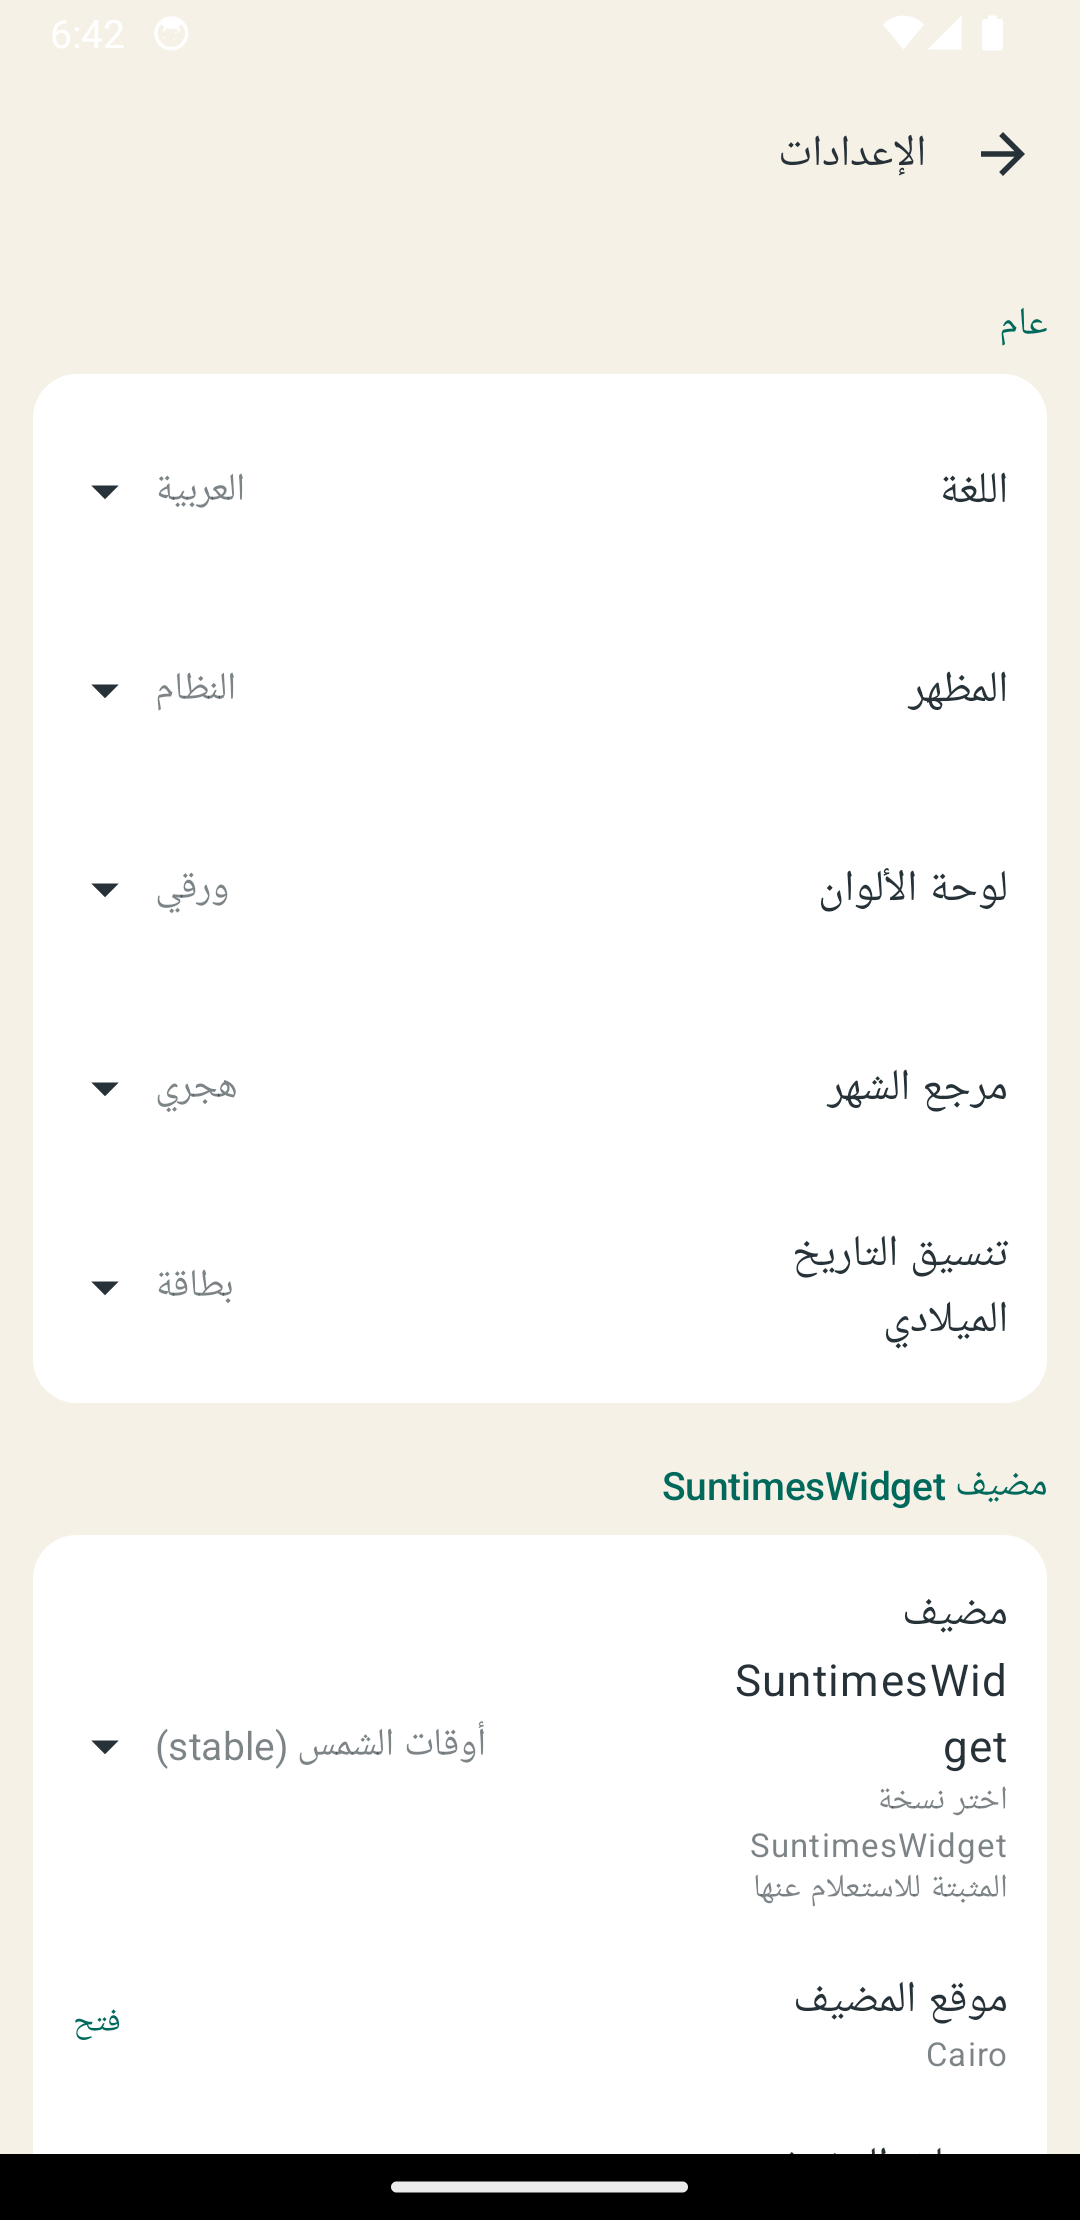
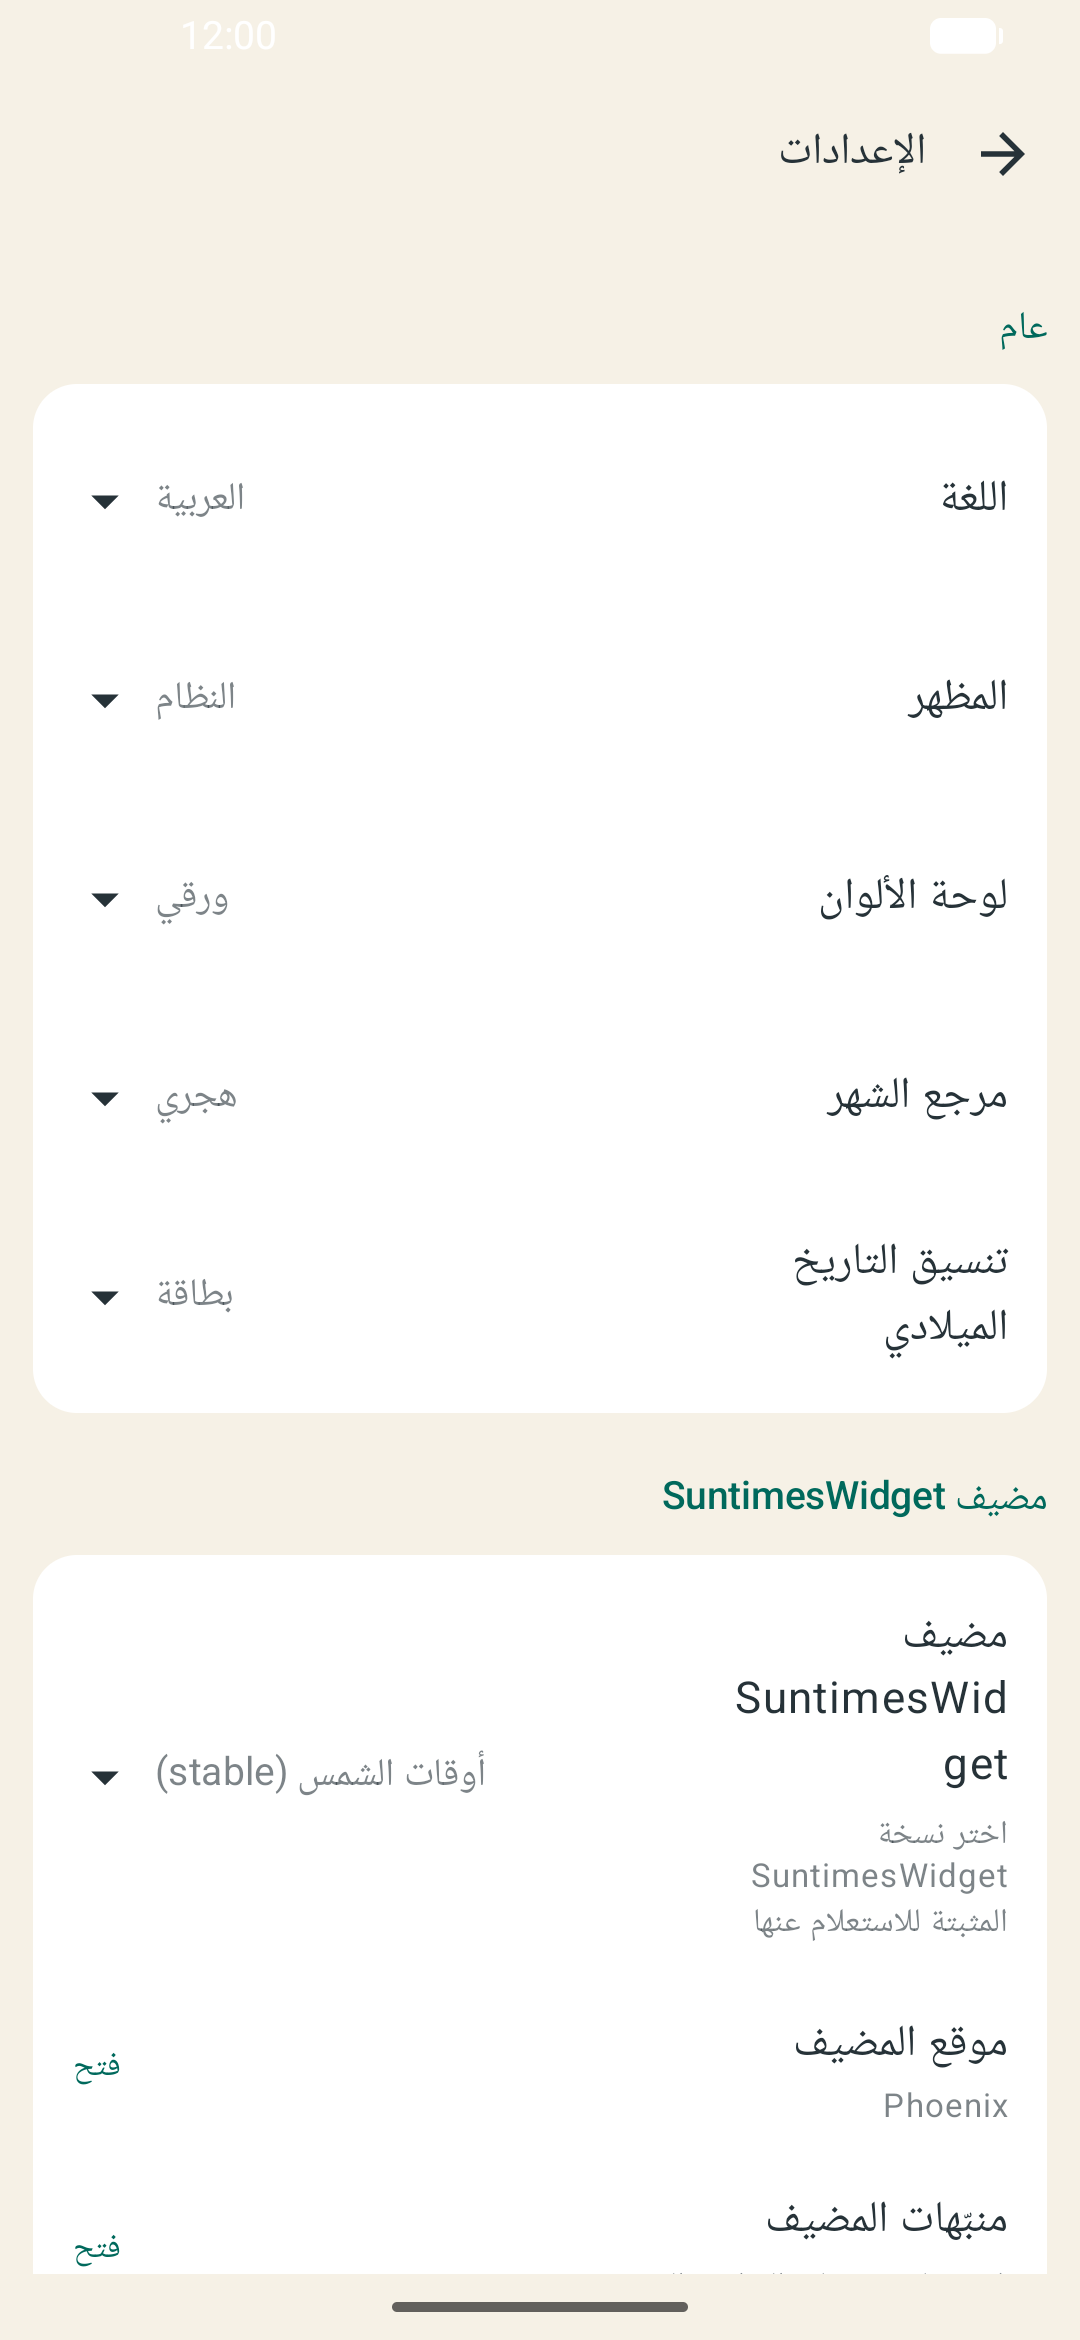
screenshots, Asr: refresh captures; reject distant host times

diff --git a/app/src/androidTest/java/com/yshalsager/suntimes/prayertimesaddon/screenshots/FastlaneScreenshotsTest.kt b/app/src/androidTest/java/com/yshalsager/suntimes/prayertimesaddon/screenshots/FastlaneScreenshotsTest.kt
@@ -1,39 +1,76 @@
 package com.yshalsager.suntimes.prayertimesaddon.screenshots
 
 import android.app.Activity
+import android.app.LocaleManager
+import android.appwidget.AppWidgetManager
 import android.content.Intent
+import android.os.LocaleList
 import android.os.SystemClock
-import androidx.appcompat.app.AppCompatDelegate
-import androidx.core.os.LocaleListCompat
 import androidx.test.core.app.ActivityScenario
 import androidx.test.ext.junit.runners.AndroidJUnit4
 import androidx.test.platform.app.InstrumentationRegistry
+import com.yshalsager.suntimes.prayertimesaddon.core.AddonEvent
+import com.yshalsager.suntimes.prayertimesaddon.core.AddonRuntimeProfile
 import com.yshalsager.suntimes.prayertimesaddon.core.AppClock
+import com.yshalsager.suntimes.prayertimesaddon.core.HostResolver
+import com.yshalsager.suntimes.prayertimesaddon.core.Prefs
+import com.yshalsager.suntimes.prayertimesaddon.core.SavedLocation
+import com.yshalsager.suntimes.prayertimesaddon.core.SavedLocations
+import com.yshalsager.suntimes.prayertimesaddon.core.day_start_at
+import com.yshalsager.suntimes.prayertimesaddon.core.query_host_addon_time
+import com.yshalsager.suntimes.prayertimesaddon.core.query_host_sun
 import com.yshalsager.suntimes.prayertimesaddon.ui.DaysActivity
 import com.yshalsager.suntimes.prayertimesaddon.ui.MainActivity
 import com.yshalsager.suntimes.prayertimesaddon.ui.SettingsActivity
+import com.yshalsager.suntimes.prayertimesaddon.widget.PrayerTimesWidgetConfigureActivity
+import org.junit.Assert.assertEquals
+import org.junit.Assert.assertTrue
 import org.junit.Test
 import org.junit.runner.RunWith
 import tools.fastlane.screengrab.Screengrab
+import tools.fastlane.screengrab.cleanstatusbar.CleanStatusBar
+import tools.fastlane.screengrab.cleanstatusbar.IconVisibility
 import tools.fastlane.screengrab.locale.LocaleTestRule
 import java.util.Calendar
 import java.util.TimeZone
 
 @RunWith(AndroidJUnit4::class)
 class FastlaneScreenshotsTest {
+    private val screenshot_location = SavedLocation(
+        id = "screenshots-cairo",
+        label = "Cairo",
+        latitude = "30.0444",
+        longitude = "31.2357",
+        altitude = "23",
+        timezone_id = "Africa/Cairo",
+        calc_mode = SavedLocations.calc_mode_custom
+    )
+
     @get:org.junit.Rule
     val locale_rule = LocaleTestRule()
 
     @Test
     fun capture_core_screens() {
+        val instrumentation = InstrumentationRegistry.getInstrumentation()
         val locale_tag = InstrumentationRegistry.getArguments().getString("testLocale") ?: "en-US"
         AppClock.set_fixed_now_millis(fixed_now_millis())
+        instrumentation.uiAutomation.executeShellCommand("pm grant ${instrumentation.targetContext.packageName} android.permission.DUMP").close()
+        instrumentation.uiAutomation.executeShellCommand("settings put global sysui_demo_allowed 1").close()
         try {
+            prepare_fixture()
             apply_locale(locale_tag)
+            assert_valid_prayer_ranges()
             capture(MainActivity::class.java, "01_home", 4200L)
             capture(DaysActivity::class.java, "02_calendar", 1800L)
             capture(SettingsActivity::class.java, "03_settings", 1000L)
+            capture(
+                Intent(InstrumentationRegistry.getInstrumentation().targetContext, PrayerTimesWidgetConfigureActivity::class.java)
+                    .putExtra(AppWidgetManager.EXTRA_APPWIDGET_ID, 42),
+                "04_widget_configuration",
+                1000L
+            )
         } finally {
+            CleanStatusBar.disable()
             AppClock.set_fixed_now_millis(null)
         }
     }
@@ -45,22 +82,113 @@ class FastlaneScreenshotsTest {
             timeInMillis
         }
 
+    private fun prepare_fixture() {
+        val instrumentation = InstrumentationRegistry.getInstrumentation()
+        val context = instrumentation.targetContext
+        val host = checkNotNull(HostResolver.ensure_default_selected(context)) {
+            "SuntimesWidget must be installed before capturing screenshots"
+        }
+        HostResolver.get_required_permission(context, host)?.let {
+            instrumentation.uiAutomation.grantRuntimePermission(context.packageName, it)
+        }
+        SavedLocations.save(context, listOf(screenshot_location))
+        Prefs.set_home_location_source(context, SavedLocations.home_source_saved)
+        Prefs.set_home_location_id(context, screenshot_location.id)
+        Prefs.set_days_show_prohibited(context, true)
+        Prefs.set_days_show_night_portions(context, true)
+        Prefs.set_days_show_hijri(context, true)
+    }
+
+    private fun assert_valid_prayer_ranges() {
+        val context = InstrumentationRegistry.getInstrumentation().targetContext
+        val host = HostResolver.ensure_default_selected(context)!!
+        val timezone = TimeZone.getTimeZone(screenshot_location.timezone_id)
+        val day_start = day_start_at(fixed_now_millis(), timezone)
+        val selection = SavedLocations.build_selection(day_start, screenshot_location)
+        val method = screenshot_location.method_config()
+        val runtime = AddonRuntimeProfile.defaults()
+        fun time(event: AddonEvent): Long? = query_host_addon_time(
+            context,
+            host,
+            event,
+            day_start,
+            selection.first,
+            selection.second,
+            timezone,
+            screenshot_location.latitude.toDouble(),
+            method,
+            runtime
+        )
+
+        val sun = query_host_sun(context, host, day_start, selection.first, selection.second)
+        val fajr = time(AddonEvent.prayer_fajr)
+        val dhuhr = sun?.noon ?: time(AddonEvent.prayer_dhuhr)
+        val asr = time(AddonEvent.prayer_asr)
+        val maghrib = sun?.sunset ?: time(AddonEvent.prayer_maghrib)
+        val isha = time(AddonEvent.prayer_isha)
+        val prayers = listOf("Fajr" to fajr, "Dhuhr" to dhuhr, "Asr" to asr, "Maghrib" to maghrib, "Isha" to isha)
+        val prayer_times = prayers.map { (label, value) ->
+            checkNotNull(value) { "$label must be available before screenshot capture" }
+        }
+        assertTrue("obligatory prayers must be ordered", prayer_times.zipWithNext().all { (start, end) -> end > start })
+        assertTrue("obligatory prayers must span less than one day", prayer_times.last() - prayer_times.first() < 24L * 60L * 60L * 1000L)
+        prayers.forEach { (label, value) ->
+            assertEquals("$label must be on the captured day", day_start, day_start_at(value!!, timezone))
+        }
+
+        val sunrise = sun?.sunrise ?: time(AddonEvent.makruh_sunrise_start)
+        val sunrise_end = time(AddonEvent.makruh_sunrise_end)
+        val zawal_start = sun?.noon?.minus(method.zawal_minutes * 60_000L) ?: time(AddonEvent.makruh_zawal_start)
+        val sunset_start = time(AddonEvent.makruh_sunset_start)
+        val sunset = sun?.sunset ?: time(AddonEvent.makruh_sunset_end)
+        listOf(
+            "dawn" to (fajr to sunrise),
+            "sunrise" to (sunrise to sunrise_end),
+            "zawal" to (zawal_start to dhuhr),
+            "after Asr" to (asr to sunset_start),
+            "sunset" to (sunset_start to sunset)
+        ).forEach { (label, range) ->
+            val start = checkNotNull(range.first) { "$label start must be available before screenshot capture" }
+            val end = checkNotNull(range.second) { "$label end must be available before screenshot capture" }
+            assertTrue("$label must end after it starts ($start..$end)", end > start)
+            assertTrue("$label must be shorter than one day (${(end - start) / 60_000L} minutes; $start..$end)", end - start < 24L * 60L * 60L * 1000L)
+            assertEquals("$label start must be on the captured day", day_start, day_start_at(start, timezone))
+            assertEquals("$label end must be on the captured day", day_start, day_start_at(end, timezone))
+        }
+    }
+
     private fun apply_locale(locale_tag: String) {
         val context = InstrumentationRegistry.getInstrumentation().targetContext
         val lang = if (locale_tag.startsWith("ar")) "ar" else "en"
-        InstrumentationRegistry.getInstrumentation().runOnMainSync {
-            AppCompatDelegate.setApplicationLocales(LocaleListCompat.forLanguageTags(lang))
-        }
         val intent = Intent(context, MainActivity::class.java).addFlags(Intent.FLAG_ACTIVITY_NEW_TASK)
-        ActivityScenario.launch<Activity>(intent).use { SystemClock.sleep(400) }
+        ActivityScenario.launch<Activity>(intent).use {
+            InstrumentationRegistry.getInstrumentation().runOnMainSync {
+                context.getSystemService(LocaleManager::class.java).applicationLocales = LocaleList.forLanguageTags(lang)
+            }
+            SystemClock.sleep(400)
+        }
     }
 
     private fun capture(activity_class: Class<out Activity>, name: String, wait_millis: Long) {
         val context = InstrumentationRegistry.getInstrumentation().targetContext
-        val intent = Intent(context, activity_class).addFlags(Intent.FLAG_ACTIVITY_NEW_TASK)
+        capture(Intent(context, activity_class), name, wait_millis)
+    }
+
+    private fun capture(intent: Intent, name: String, wait_millis: Long) {
+        intent.addFlags(Intent.FLAG_ACTIVITY_NEW_TASK)
         ActivityScenario.launch<Activity>(intent).use {
             SystemClock.sleep(wait_millis)
+            clean_status_bar()
             Screengrab.screenshot(name)
         }
+    }
+
+    private fun clean_status_bar() {
+        CleanStatusBar()
+            .setClock("1200")
+            .setWifiVisibility(IconVisibility.HIDE)
+            .setMobileNetworkVisibility(IconVisibility.HIDE)
+            .enable()
+        SystemClock.sleep(100)
     }
 }

diff --git a/app/src/test/java/com/yshalsager/suntimes/prayertimesaddon/TestHostProviders.kt b/app/src/test/java/com/yshalsager/suntimes/prayertimesaddon/TestHostProviders.kt
@@ -25,6 +25,7 @@ class FakeHostEventProvider : ContentProvider() {
         var event_calc_failures_remaining = 0
         var query_failure: RuntimeException? = null
         var malformed_event_time = false
+        var distant_asr_time = false
         var event_calc_query_count = 0
         var fail_event_calc_query: Int? = null
         var last_query_thread: Thread? = null
@@ -109,9 +110,10 @@ class FakeHostEventProvider : ContentProvider() {
                 event_id == "SUNRISE" -> 6 * 60 * 60 * 1000L
                 event_id == "NOON" -> 12 * 60 * 60 * 1000L
                 event_id == "SUNSET" -> 18 * 60 * 60 * 1000L
-                event_id == "SHADOWRATIO_X:1.0" -> 15 * 60 * 60 * 1000L + 30 * 60 * 1000L
+                event_id == "SHADOWRATIO_X:1.0" -> if (distant_asr_time) 200L * day_millis else 15 * 60 * 60 * 1000L + 30 * 60 * 1000L
                 event_id == "SHADOWRATIO_X:2.0" -> 16 * 60 * 60 * 1000L + 30 * 60 * 1000L
                 event_id == "SUN_5.0s" -> 17 * 60 * 60 * 1000L + 45 * 60 * 1000L
+                event_id == "SUN_45.0s" -> 16 * 60 * 60 * 1000L
                 event_id.startsWith("SUN_-") && event_id.endsWith("r") -> 5 * 60 * 60 * 1000L
                 event_id.startsWith("SUN_-") && event_id.endsWith("s") -> 19 * 60 * 60 * 1000L + 30 * 60 * 1000L
                 else -> null

diff --git a/app/src/test/java/com/yshalsager/suntimes/prayertimesaddon/core/TimesTest.kt b/app/src/test/java/com/yshalsager/suntimes/prayertimesaddon/core/TimesTest.kt
@@ -41,6 +41,7 @@ class TimesTest {
         FakeHostEventProvider.event_calc_failures_remaining = 0
         FakeHostEventProvider.query_failure = null
         FakeHostEventProvider.malformed_event_time = false
+        FakeHostEventProvider.distant_asr_time = false
         FakeHostEventProvider.event_calc_query_count = 0
         FakeHostEventProvider.fail_event_calc_query = null
         FakeHostCalcProvider.location = "Test Location"
@@ -224,6 +225,22 @@ class TimesTest {
         val asr = query_host_addon_time(context, host_event_authority, AddonEvent.prayer_asr, day_start)
 
         assertEquals(15 * 60 * 60 * 1000L + 30 * 60 * 1000L, asr)
+    }
+
+    @Test
+    fun query_host_addon_time_rejects_distant_host_shadow_ratio_result() {
+        val day_start = utc_day_start(2026, Calendar.MARCH, 12)
+        FakeHostEventProvider.distant_asr_time = true
+
+        val asr = query_host_addon_time(
+            context,
+            host_event_authority,
+            AddonEvent.prayer_asr,
+            day_start,
+            latitude_override = 10.0
+        )
+
+        assertEquals(day_start + 16 * 60 * 60 * 1000L, asr)
     }
 
     @Test

diff --git a/app/src/main/java/com/yshalsager/suntimes/prayertimesaddon/core/HostEventQueries.kt b/app/src/main/java/com/yshalsager/suntimes/prayertimesaddon/core/HostEventQueries.kt
@@ -98,7 +98,11 @@ object HostEventQueries {
     ): Long? {
         val factor = asr_factor_override ?: Prefs.get_asr_factor(context)
         val host_event_id = resolve_shadow_ratio_event_id(context, host_event_authority, factor)
-        if (host_event_id != null) return query_host_event_time(context, host_event_authority, host_event_id, 0, selection, selectionArgs)
+        if (host_event_id != null) {
+            val host_time = query_host_event_time(context, host_event_authority, host_event_id, 0, selection, selectionArgs)
+            val alarm_now = parse_host_selection(selection, selectionArgs)[AlarmEventContract.extra_alarm_now]?.toLongOrNull()
+            if (host_time != null && (alarm_now == null || host_time - alarm_now in 0L..48L * 60L * 60L * 1000L)) return host_time
+        }
         return calc_asr_fallback_time(context, host_event_authority, selection, selectionArgs, latitude_override, factor)
     }
 
